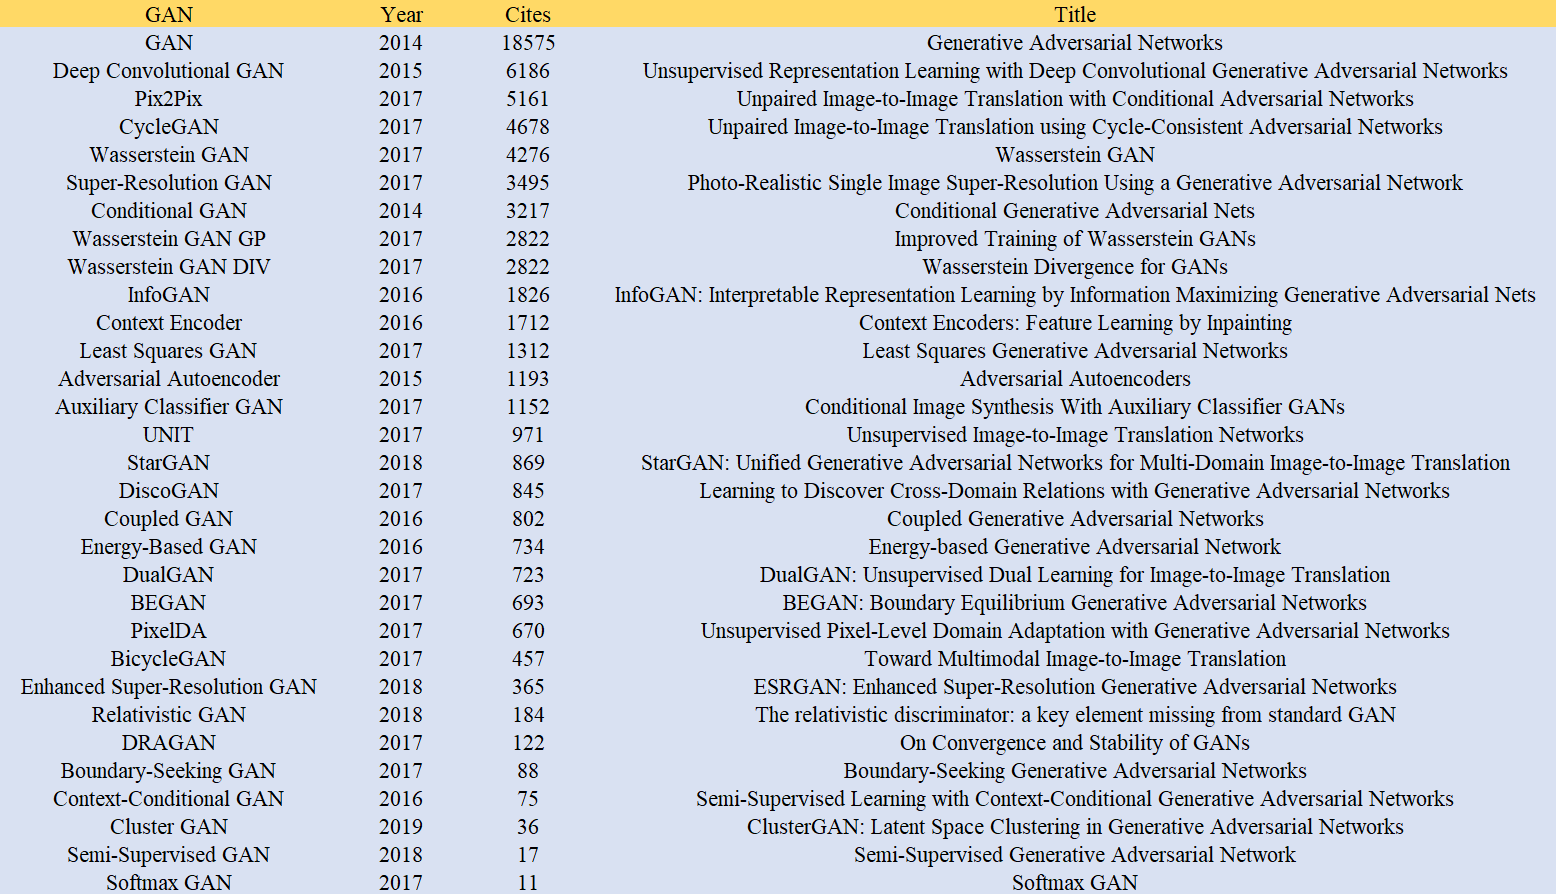
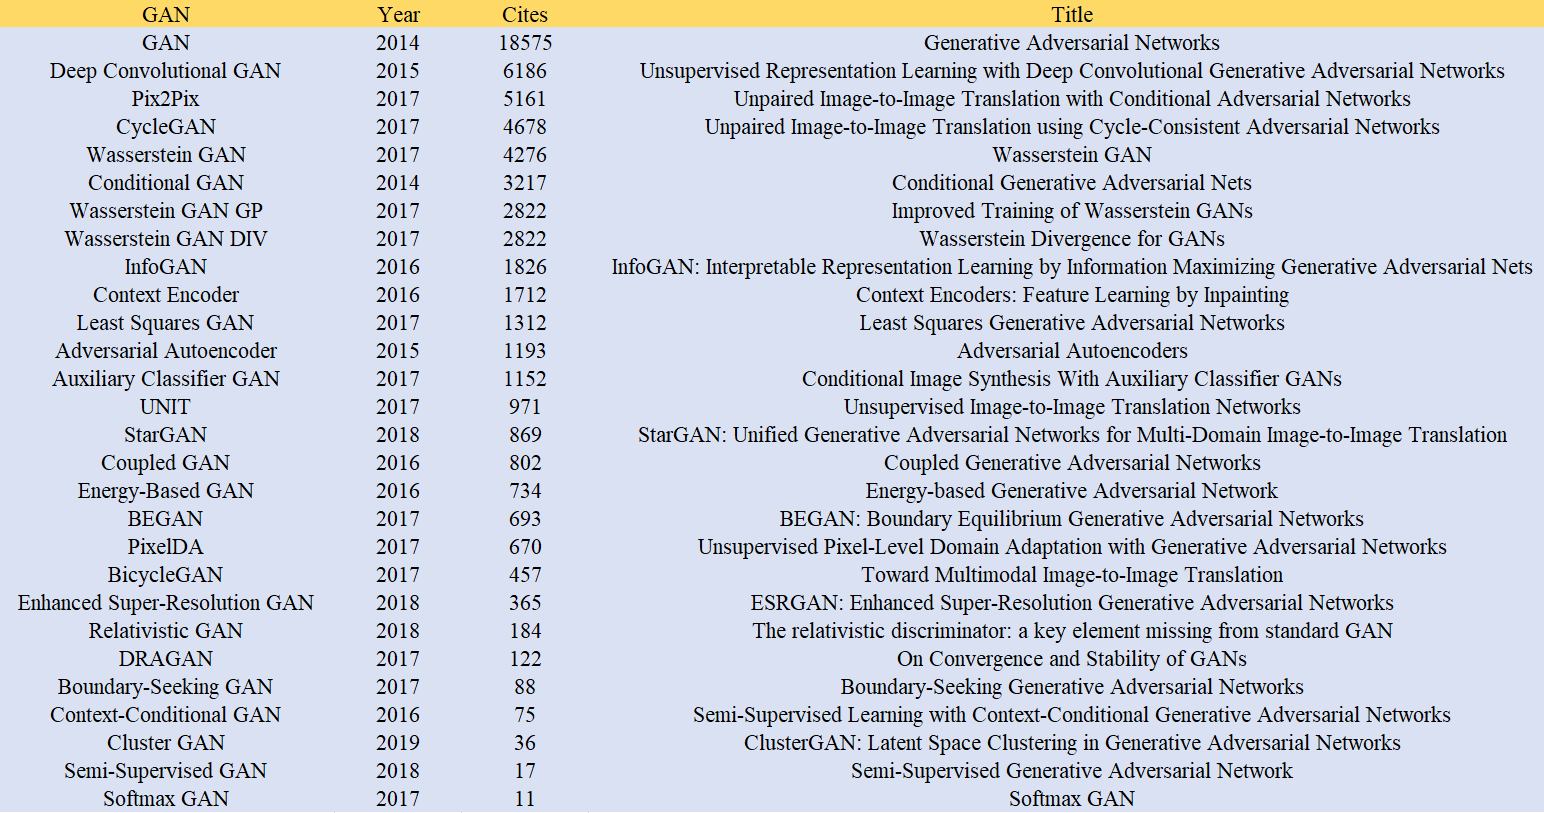
update

diff --git a/README.md b/README.md
@@ -5,7 +5,7 @@ Code based on [Pytorch-GAN](https://github.com/eriklindernoren/PyTorch-GAN)
 Our GAN model zoo supports 31 kinds of GAN.
 This table is the latest citations we found from Google Scholar.
 It can be seen that since GAN was proposed in 2014, a lot of excellent work based on GAN has appeared.
-These 31 GANs have a total of 66089 citations, with an average of 2132 citations per article.
+These 28 GANs have a total of 60953 citations, with an average of 2176 citations per article.
 
 <p align="center">
     <img src="assets/cite.png"\>
